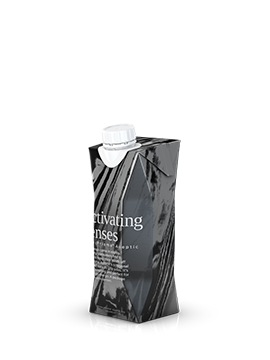
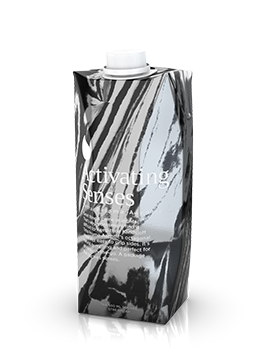
update tetrapak content
update welcome message copywriting  (id&en)
update story copywriting (en)
update story CTA url
update threat waste copywriting (en)
update joined program DB copywriting (en)
update package image and name

Changed region(s): [[0.237, 0.1528, 0.7704, 0.9167]]

diff --git a/application/views/brands/tetrapak/index.php b/application/views/brands/tetrapak/index.php
@@ -1,83 +1,87 @@
 
 <!-- Promo Block -->
 <section id="welcome" class="dzsparallaxer auto-init height-is-based-on-content use-loading mode-scroll loaded dzsprx-readyall " data-options='{direction: "reverse", settings_mode_oneelement_max_offset: "150"}'>
-    <div class="divimage dzsparallaxer--target w-100 g-bg-pos-bottom-center" style="height: 120%; background-image: url(<?= base_url('assets/img/bg/'.$brand_id.'_bg.jpg') ?>);"></div>
+  <div class="divimage dzsparallaxer--target w-100 g-bg-pos-bottom-center" style="height: 120%; background-image: url(<?= base_url('assets/img/bg/'.$brand_id.'_bg.jpg') ?>);"></div>
 
-    <div class="<?= $this->agent->is_mobile() ? 'g-py-130 mb-5' : 'g-py-200' ?>" style="background-color: rgba(0,0,0,0.5)">
-        <div class="container">
-        	<div class="row">
-                    <div class="col-md-3">
-                        <div class="u-block-hover g-brd-gray-light-v4 g-color-black g-color-white--hover g-bg-white-opacity-0_4--hover text-center rounded g-transition-0_3 <?= $this->agent->is_mobile() ? 'g-px-20 g-py-20' : 'g-px-30 g-py-30' ?>">
-                            <img class="img-fluid u-block-hover__main--zoom-v1"
-                                 src="<?= base_url('assets/img/logo/' . $brand_id . '.png') ?>" alt="Image Description"
-                                 style="<?= $this->agent->is_mobile() ? 'width: 150px' : '' ?>">
-                        </div>
-                    </div>
-                    <div class="col-md-9 <?= $this->agent->is_mobile() ? 'text-center' : '' ?>">
-                        <br>
-                        <h3 class="g-color-white g-font-weight-500 g-font-size-16 g-line-height-1_2 mb-1 g-font-asap <?= $this->session->userdata('language') == 'en' ? 'd-none' : '' ?>"><?= lang('brand_recycling_program') ?></h3>
-                        <h3 class="g-color-white g-font-weight-700 g-font-size-35 g-font-asap text-uppercase <?= $this->session->userdata('language') == 'id' ? 'mb-3' : '' ?>"
-                            style="line-height: 1"><?= strtoupper($brand_name) ?></h3>
-                        <h3 class="g-color-white g-font-weight-500 g-font-size-16 g-line-height-1_2 mb-3 g-font-asap <?= !$this->session->userdata('language') || $this->session->userdata('language') == 'id' ? 'd-none' : '' ?>"><?= lang('brand_recycling_program') ?></h3>
-                        <div class="row mb-2 <?= $this->agent->is_mobile() ? 'd-none' : '' ?>">
-                            <div class="col-md-10">
-                                <span class="d-block g-color-white-opacity-0_8 g-font-size-14 mb-3"><?= strtoupper($brand_name) ?> <?= lang('brand_subtitle') ?></span>
-                            </div>
-                        </div>
-                        <div class="<?= $this->agent->is_mobile() ? 'row justify-content-center g-mb-30 g-mt-25' : '' ?>">
-                            <div class="<?= $this->agent->is_mobile() ? 'col-10' : '' ?>">
-                                <a class="btn btn-info g-brd-2 g-font-size-13 g-rounded-50 g-pl-20 g-pr-15 g-py-9 mr-4 <?= $this->agent->is_mobile() ? 'btn-block mb-4' : 'mr-4' ?>"
-                                   href="#story">
-                                    <?= strtoupper(lang('learn_more')) ?> <i
-                                            class="fa fa-chevron-circle-right ml-3"></i>
-                                </a>
-                            </div>
-                        </div>
-                        <div class="row mb-2 <?= $this->agent->is_mobile() ? '' : 'd-none' ?>">
-                            <div class="col-md-10">
-                                <span class="d-block g-color-white-opacity-0_8 g-font-size-14 mb-3"><?= strtoupper($brand_name) ?> <?= lang('brand_subtitle') ?></span>
-                            </div>
-                        </div>
-                        <br>
-                        <br>
-                    </div>
-                </div>
-            </div>
+  <div class="<?= $this->agent->is_mobile() ? 'g-py-130 mb-5' : 'g-py-200' ?>" style="background-color: rgba(0,0,0,0.5)">
+    <div class="container">
+      <div class="row">
+        <div class="col-md-3">
+          <div class="u-block-hover g-brd-gray-light-v4 g-color-black g-color-white--hover g-bg-white-opacity-0_4--hover text-center rounded g-transition-0_3 <?= $this->agent->is_mobile() ? 'g-px-20 g-py-20' : 'g-px-30 g-py-30' ?>">
+            <img class="img-fluid u-block-hover__main--zoom-v1"
+            src="<?= base_url('assets/img/logo/' . $brand_id . '.png') ?>" alt="Image Description"
+            style="<?= $this->agent->is_mobile() ? 'width: 150px' : '' ?>">
+          </div>
         </div>
+        <div class="col-md-9 <?= $this->agent->is_mobile() ? 'text-center' : '' ?>">
+          <br>
+          <h3 class="g-color-white g-font-weight-500 g-font-size-16 g-line-height-1_2 mb-1 g-font-asap <?= $this->session->userdata('language') == 'en' ? 'd-none' : '' ?>"><?= lang('brand_recycling_program') ?></h3>
+          <h3 class="g-color-white g-font-weight-700 g-font-size-35 g-font-asap text-uppercase <?= $this->session->userdata('language') == 'id' ? 'mb-3' : '' ?>"
+            style="line-height: 1"><?= strtoupper($brand_name) ?></h3>
+            <h3 class="g-color-white g-font-weight-500 g-font-size-16 g-line-height-1_2 mb-3 g-font-asap <?= !$this->session->userdata('language') || $this->session->userdata('language') == 'id' ? 'd-none' : '' ?>"><?= lang('brand_recycling_program') ?></h3>
+            <div class="row mb-2 <?= $this->agent->is_mobile() ? 'd-none' : '' ?>">
+              <div class="col-md-10">
+                <span class="d-block g-color-white-opacity-0_8 g-font-size-14 mb-3">
+                  <?php if ($brand_id == 'tetrapak'): ?>
+                    <?= lang('brand_subtitle_tetrapak') ?></span>
+                  <?php else: ?>
+                    <?= strtoupper($brand_name) ?> <?= lang('brand_subtitle') ?></span>
+                  <?php endif; ?>
+                </div>
+              </div>
+              <div class="<?= $this->agent->is_mobile() ? 'row justify-content-center g-mb-30 g-mt-25' : '' ?>">
+                <div class="<?= $this->agent->is_mobile() ? 'col-10' : '' ?>">
+                  <a class="btn btn-info g-brd-2 g-font-size-13 g-rounded-50 g-pl-20 g-pr-15 g-py-9 mr-4 <?= $this->agent->is_mobile() ? 'btn-block mb-4' : 'mr-4' ?>"
+                    href="#story">
+                    <?= strtoupper(lang('learn_more')) ?> <i class="fa fa-chevron-circle-right ml-3"></i>
+                  </a>
+                </div>
+              </div>
+              <div class="row mb-2 <?= $this->agent->is_mobile() ? '' : 'd-none' ?>">
+                <div class="col-md-10">
+                  <span class="d-block g-color-white-opacity-0_8 g-font-size-14 mb-3"><?= strtoupper($brand_name) ?> <?= lang('brand_subtitle') ?></span>
+                </div>
+              </div>
+              <br>
+              <br>
+            </div>
+          </div>
+        </div>
+      </div>
     </section>
     <!-- End Promo Block -->
 
 
-<?php
-$this->load->view('brands/tetrapak/sections/counter');
-?>
+    <?php
+    $this->load->view('brands/tetrapak/sections/counter');
+    ?>
 
-<div style="height: <?= $this->agent->is_mobile() ? '100px' : '125px' ?>" class="g-bg-white"></div>
+    <div style="height: <?= $this->agent->is_mobile() ? '100px' : '125px' ?>" class="g-bg-white"></div>
 
-<?php
-$this->load->view('brands/tetrapak/sections/story');
-?>
+    <?php
+    $this->load->view('brands/tetrapak/sections/story');
+    ?>
 
-<?php
-$this->load->view('brands/tetrapak/sections/program');
-?>
+    <?php
+    $this->load->view('brands/tetrapak/sections/program');
+    ?>
 
-<?php
-$this->load->view('brands/tetrapak/sections/waste');
-?>
+    <?php
+    $this->load->view('brands/tetrapak/sections/waste');
+    ?>
 
-<?php
-$this->load->view('brands/tetrapak/sections/threat');
-?>
+    <?php
+    $this->load->view('brands/tetrapak/sections/threat');
+    ?>
 
-<?php
-$this->load->view('brands/tetrapak/sections/map');
-?>
+    <?php
+    $this->load->view('brands/tetrapak/sections/map');
+    ?>
 
-<?php
-$this->load->view('brands/tetrapak/sections/join');
-?>
+    <?php
+    $this->load->view('brands/tetrapak/sections/join');
+    ?>
 
-<?php
-$this->load->view('brands/tetrapak/sections/share');
-?>
+    <?php
+    $this->load->view('brands/tetrapak/sections/share');
+    ?>

diff --git a/application/views/brands/tetrapak/sections/waste.php b/application/views/brands/tetrapak/sections/waste.php
@@ -10,52 +10,52 @@
         <div class="col-md-9">
             <div id="waste-carousel" class="col-md-12 owl-theme" style="margin: 0 0 30px 0!important;">
                 <?php
-                
+
                 $tetrapak = [
                     [
                         'title' => 'Tetra Pak #1',
                         'img' => 'Kemasan_Tetra_Pak_1_Tetra_Wedge_125_200ml.png',
-                        'subtitle' => '',
+                        'subtitle' => 'Kemasan Tetra Pak 1 Tetra Wedge<sup>&reg</sup> Aseptic 125 200ml',
                     ],
                     [
                         'title' => 'Tetra Pak #1',
                         'img' => 'Kemasan_Tetra_Pak_2_Tetra_Top_200_250_330_400_500ml.png',
-                        'subtitle' => '',
+                        'subtitle' => 'Kemasan Tetra Pak 2 Tetra Top<sup>&reg</sup> 200 250 330 400 500ml',
                     ],
                     [
                         'title' => 'Tetra Pak #1',
                         'img' => 'Kemasan_Tetra_Pak_3_Tetra_Rex_237_250_300_315_375_473_500_600_750_946_1000ml.png',
-                        'subtitle' => '',
+                        'subtitle' => 'Kemasan Tetra Pak 3 Tetra Rex<sup>&reg</sup> 237 250 300 315 375 473 500 600 750 946 1000ml',
                     ],
                     [
                         'title' => 'Tetra Pak #1',
                         'img' => 'Kemasan_Tetra_Pak_4_Tetra_Recart_200ml.png',
-                        'subtitle' => '',
+                        'subtitle' => 'Kemasan Tetra Pak 4 Tetra Recart<sup>&reg</sup> 200ml',
                     ],
                     [
                         'title' => 'Tetra Pak #1',
                         'img' => 'Kemasan_Tetra_Pak_5_Tetra_Prisma_Aseptic_200_250_500ml.png',
-                        'subtitle' => '',
+                        'subtitle' => 'Kemasan Tetra Pak 5 Tetra Prisma<sup>&reg</sup> Aseptic 200 250 500ml',
                     ],
                     [
                         'title' => 'Tetra Pak #1',
                         'img' => 'Kemasan_Tetra_Pak_6_Tetra_Gemina_500_750_1000_1500ml.png',
-                        'subtitle' => '',
+                        'subtitle' => 'Kemasan Tetra Pak 6 Tetra Gemina<sup>&reg</sup> 500 750 1000 1500ml',
                     ],
                     [
                         'title' => 'Tetra Pak #1',
                         'img' => 'Kemasan_Tetra_Pak_7_Tetra_Fino_70_100_150_200_220_250_500_1000ml.png',
-                        'subtitle' => '',
+                        'subtitle' => 'Kemasan Tetra Pak 7 Tetra Fino<sup>&reg</sup> 70 100 150 200 220 250 500 1000ml',
                     ],
                     [
                         'title' => 'Tetra Pak #1',
                         'img' => 'Kemasan_Tetra_Pak_8_Tetra_Classic_200ml.png',
-                        'subtitle' => '',
+                        'subtitle' => 'Kemasan Tetra Pak 8 Tetra Classic<sup>&reg</sup> 200ml',
                     ],
                     [
                         'title' => 'Tetra Pak #1',
                         'img' => 'Kemasan_Tetra_Pak_9_Tetra_Brik_200_250_500_1000ml.png',
-                        'subtitle' => '',
+                        'subtitle' => 'Kemasan Tetra Pak 9 Tetra Brik<sup>&reg</sup> 200 250 500 1000ml',
                     ],
                 ];
                 $xa=$tetrapak;
@@ -67,7 +67,8 @@
                         <!-- Projects -->
                         <div class="u-block-hover g-brd-around g-brd-gray-light-v4 g-color-black g-bg-white--hover text-center g-rounded-7 g-transition-0_3 g-px-30 g-py-50">
                             <img class="img-fluid u-block-hover__main--zoom-v1 mb-5" src="<?= base_url('assets/img/waste/'.$brand_id.'/'.$x['img']) ?>" alt="Image Description">
-                            <span class="g-font-weight-600 g-font-size-12 text-uppercase"><?= $brand_id=='tetrapak' ? str_replace('_', ' ', substr($x['img'], 0, -4)) : $x['subtitle'] ?></span>
+                            <!-- <span class="g-font-weight-600 g-font-size-12 text-uppercase"><?= $brand_id=='tetrapak' ? str_replace('_', ' ', substr($x['img'], 0, -4)) : $x['subtitle'] ?></span> -->
+                            <span class="g-font-weight-600 g-font-size-12 text-uppercase"><?= $x['subtitle'] ?></span>
                             <div class="g-font-size-18 g-font-weight-600 mb-0 d-none"><?= strtoupper($x['title']) ?></div>
                             <a class="u-link-v2"></a>
                         </div>

diff --git a/application/language/indonesia/this_lang.php b/application/language/indonesia/this_lang.php
@@ -69,6 +69,7 @@ $lang["services_send_your_waste_corp"]="adalah sistem pengumpulan kemasan bekas 
 //$lang["services_dropbox"]="Layanan pengumpulan kemasan bekas dimana konsumen secara sukarela dapat menaruh sampah di lokasi Dropping Box terdekat untuk mendukung upaya kolaborasi yang diinisiasi oleh sektor industri dan pengelola sampah.";
 $lang["services_waste_management"]="Kami menerapkan jasa pengelolaan sampah bertanggung jawab yang juga memenuhi regulasi pemerintah dan memfasilitasi klien yang mau mengelola sampahnya secara lebih bertanggung jawab melalui sistem kolaborasi dan teknologi.";
 $lang["services_dropbox"]="Adalah sistem pengumpulan kemasan bekas dimana konsumen dapat memasukkan kemasan bekas mereka ke dalam dropbox terdekat untuk mendukung upaya daur ulang kemasan secara kolaboratif bersama sektor informal dan industri";
+$lang["services_dropbox_tetrapak"]="Adalah sistem pengumpulan kemasan bekas dimana konsumen dapat memasukkan kemasan bekas mereka ke dalam dropbox terdekat untuk mendukung upaya daur ulang kemasan secara kolaboratif bersama sektor informal dan industri";
 $lang["services_dropbox_corp"]="adalah program untuk brand bersama Waste4Change melakukan upaya kampanye pengelolaan sampah kemasan brand secara bertanggung jawab dengan menyediakan akses penyetoran/pengumpulan sampah kemasan ke titik-titik dropbox yang tersedia";
 $lang["services_personal_waste_management"]="Kami mengumpulkan sampah Anda dengan melakukan penjemputan ke lokasi rumah dan memastikan sampah akan dikelola secara bertanggung jawab";
 $lang["services_feasibility_study"]="Kami memberikan laporan berdasar penelitian mendalam tentang pengelolaan sampah perusahaan Anda serta memberikan rekomendasi pengelolaan sampah yang bertanggung jawab untuk perusahaan Anda";
@@ -280,7 +281,9 @@ $lang['brand_join_subtitle']="Berkontribusi dalam pengelolaan sampah yang bertan
 $lang['brand_join_subtitle2']="Isi formulir di bawah ini untuk bergabung dan mendapatkan informasi lebih lanjut tentang layanan pengelolaan sampah dari Waste4Change";
 
 //brand page
+$lang["program_brand_title"]="PROGRAM YANG DIIKUTI";
 $lang['brand_subtitle']="bekerja sama dengan Waste4Change untuk mendaur ulang kemasan kerton bekas (UBC) melalui program-program yang dilakukan bersama. Berikan kontribusi Anda dengan mengirimkan kemasan bekas kepada kami untuk didaur ulang secara bertanggung jawab";
+$lang['brand_subtitle_tetrapak']="TETRA PAK merupakan perusahaan global yang bergerak di bidang pemrosesan dan pengemasan makanan dan minuman, berkomitmen untuk mengurangi dampak lingkungan dari semua operasi dengan pola pendekatan usaha yang berkelanjutan dan mengedepankan aspek lingkungan untuk setiap produk. Kami percaya akan kepemimpinan industri yang bertanggungjawab, demi memastikan agar kemasan dapat didaur ulang setelah masa penggunaan, Tetra Pak bekerja sama dengan Waste4Change untuk mendaur ulang kemasan karton bekas minuman (UBC) melalui program-program yang dilakukan bersama. Berikan kontribusi Anda dengan mengirimkan kemasan bekas kepada kami untuk didaur ulang secara bertanggung jawab.";
 $lang['brand_recycling_program']="PROGRAM DAUR ULANG";
 $lang["program_brand_title"]="PROGRAM YANG DIIKUTI";
 $lang["program_brand_subtitle"]="melakukan aksi nyata dalam upaya pengelolaan sampah yang bertanggung jawab dan berkelanjutan melalui program-program daur ulang bersama Waste4Change";

diff --git a/application/views/brands/tetrapak/sections/threat.php b/application/views/brands/tetrapak/sections/threat.php
@@ -17,7 +17,7 @@
                         <p class="g-font-weight-300 text-muted <?= $this->agent->is_mobile() ? 'g-font-size-14' : 'g-font-size-16' ?>">
                             <?php
                             $subtitle_id='Sebelum mengirimkan kemasan bekas minuman, ketahui dahulu 3L (Lipat, Letak, Lepas) untuk menyiapkannya agar mudah untuk didaur ulang';
-                                $subtitle_en='Sebelum mengirimkan kemasan bekas minuman, ketahui dahulu 3L (Lipat, Letak, Lepas) untuk menyiapkannya agar mudah untuk didaur ulang';
+                                $subtitle_en='Before sending used beverage packaging, first know 3L (Fold, Lay, Release) to prepare it for easy recycling';
                                 if($this->session->userdata('language')=='en'){
                                     $subtitle=$subtitle_en;
                                 }else{
@@ -33,7 +33,7 @@
                 <div id="carousel2" class="js-carousel" data-infinite="true">
                     <?php
                     $treat_id = [
-                        
+
                         [
                             'type' => 'LIPAT',
                             'title' => 'Buka Lipatan',
@@ -46,7 +46,7 @@
                             'title' => 'Letakkan Sedotan ke dalam Kemasan',
                             'image' => 'TetraPak_3.jpg',
                             'for' => 'tetrapak',
-                            'description' => 'Letakkan Sedotan ke dalam Kemasan Letakkan sedotan dan tutup kemasan untuk memastikan sedotan ikut terkirim dan terdaur ulang dengan benar.',
+                            'description' => 'Letakkan sedotan dan tutup kemasan untuk memasikan sedotan ikut terkirim dan terdaur ulang dengan benar.',
                         ],
                         [
                             'type' => 'LEPAS',
@@ -57,23 +57,23 @@
                         ],
                     ];
                     $treat_en = [
-                        
+
                         [
-                            'type' => 'KARTON #1',
+                            'type' => 'CARTON #1',
                             'title' => 'Empty The Packaging',
                             'image' => 'TetraPak_1.jpg',
                             'for' => 'tetrapak',
                             'description' => 'Make sure all the waste is dry, not moist or wet.',
                         ],
                         [
-                            'type' => 'KARTON #2',
+                            'type' => 'CARTON #2',
                             'title' => 'Push The Straw',
                             'image' => 'TetraPak_3.jpg',
                             'for' => 'tetrapak',
                             'description' => 'Push the straw back in to make sure the straw is also recycled.',
                         ],
                         [
-                            'type' => 'KARTON #3',
+                            'type' => 'CARTON #3',
                             'title' => 'Flatten The Carton',
                             'image' => 'TetraPak_2.jpg',
                             'for' => 'tetrapak',

diff --git a/application/language/english/this_lang.php b/application/language/english/this_lang.php
@@ -69,6 +69,7 @@ $lang["services_send_your_waste_corp"]="Is a packaging-waste collecting system w
 //$lang["services_dropbox"]="A packaging waste collection service in which consumers can voluntarily submit their waste to the nearest dropping box in their neighborhood to support the collaborative packaging recycle effort initiated by industry sectors and waste collectors.";
 $lang["services_waste_management"]="We are implementing responsible municipal solid waste management services in accordance with government regulation and facilitating educated clients who want to manage their waste responsibly with collaboration system and technology.";
 $lang["services_dropbox"]="Recycle your inorganic waste and used packaging by putting in Waste4change's Drop Box";
+$lang["services_dropbox_tetrapak"]="Is a used packaging collection system where consumers can put their used packaging into the nearest dropbox to support collaborative packaging recycling efforts with the informal and industrial sectors";
 $lang["services_dropbox_corp"]="program for brand with Waste4Change is carrying out a brand used packaging management campaign responsibly by providing used packaging drop/collection access through dropping points that available";
 $lang["services_personal_waste_management"]="We collect your waste by picking it up from your house and make sure that the waste is managed responsibly";
 $lang["services_feasibility_study"]="We produce report based on an in-depth research about Your Company's waste management and give recommendations on responsible waste management for Your Company ";
@@ -281,6 +282,7 @@ $lang["brand_join_subtitle2"]="Fill out the form below to join and get more info
 
 //brand page
 $lang["brand_subtitle"]="and Waste4Change have partnered to recycle Brand's used packaging through Recycling Program by Waste4Change. Let's contribute by give us back the used packaging for recycling";
+$lang["brand_subtitle_tetrapak"]="TETRA PAK is a global company engaged in the processing and packaging of food and beverages, committed to reducing the environmental impact of all operations with a sustainable business approach and prioritizing environmental aspects for each product. We believe in the responsible industry leadership, in order to ensure that packaging can be recycle after use, Tetra Pak works with Waste4Change to recycle used beverage carton (UBC) through joint programs. Give your contribution by sending used packaging to us for responsible recycling";
 $lang["brand_recycling_program"]="RECYCLING PROGRAM";
 $lang["program_brand_title"]="JOINED PROGRAM";
 $lang["program_brand_subtitle"]="take real action in responsible waste management & sustainability efforts through recycling programs with by Waste4Change";

diff --git a/application/views/brands/tetrapak/sections/story.php b/application/views/brands/tetrapak/sections/story.php
@@ -6,7 +6,7 @@
         <!-- Info Image -->
         <?php
         $en=[
-                'description' => 'We commit to bring sustainibility towards <strong>Circular Economy</strong> by working with industry partners to ensure recycling solutions are in place for all components of beverage cartons, substantially increasing the use of plastics made from renewable feedstocks and using recycled plastics once they are validated  as safe and legally acceptable for food contact material.',
+                'description' => 'We commit to bring business continuity towards Circular Economy in collaboration with industry partners to ensure solutions for collecting and recycling used beverage carton packaging are available for every part of Tetra Pak packaging, and substantially increase the use of renewable raw materials and their potential in using plastic or paper recycled after being validated as a safe and legal material accepted for food grade.',
                 'content_1_title' => 'Increasing Recycling',
                 'content_1_content' => 'Recycling helps keep valuable materials in the economy. By collaboration with patrners we want to increase recycle rate of our product and keep our commitment on <strong>Circular Economy</strong>.',
                 'content_2_title' => 'Responsible Sourcing of Materials',
@@ -69,7 +69,7 @@
                     <p id="story_description_desktop" class="g-color-black-opacity-0_7 g-mb-25">
                         <?= $story['description'] ?>
                     </p>
-                    <a target="_blank" class="btn btn-info g-color-white g-font-size-13 g-rounded-50 g-pl-20 g-pr-15 g-py-9 g-mb-30" href="http://www.tetrapak.com/id/sustainability/daur-ulang-kemasan"> PELAJARI LEBIH LANJUT </a>
+                    <a target="_blank" class="btn btn-info g-color-white g-font-size-13 g-rounded-50 g-pl-20 g-pr-15 g-py-9 g-mb-30" href="http://tetrapak.com/id/about/tetra-pak-indo"> <?php echo lang('learn_more') ?> <i class="fa fa-chevron-circle-right ml-3"></i></a>
                 </div>
 
                 <div class="col-lg-6 g-min-height-200 g-bg-size-cover g-bg-pos-center">

diff --git a/application/views/brands/tetrapak/sections/program.php b/application/views/brands/tetrapak/sections/program.php
@@ -68,7 +68,7 @@
                                 <i class="et-icon-recycle"></i>
                             </span>
                             <h3 class="h5 g-color-black g-font-weight-600 mb-3">Dropping Box</h3>
-                            <p class="g-color-gray-dark-v4" style="min-height: 120px"><?= lang('services_dropbox') ?></p>
+                            <p class="g-color-gray-dark-v4" style="min-height: 120px"><?= lang('services_dropbox_tetrapak') ?></p>
                             <a class="g-color-info g-color-blue--hover g-font-size-12 g-mt-10" target="_blank" href="<?= (DROPBOX_URL) ?>"><?= strtoupper(lang('learn_more')) ?> <i class="fa fa-chevron-right g-ml-10"></i> </a>
                         </div>
                         <!-- End Icon Blocks -->
@@ -94,4 +94,3 @@
         </div>
     </div>
 </section>
-
